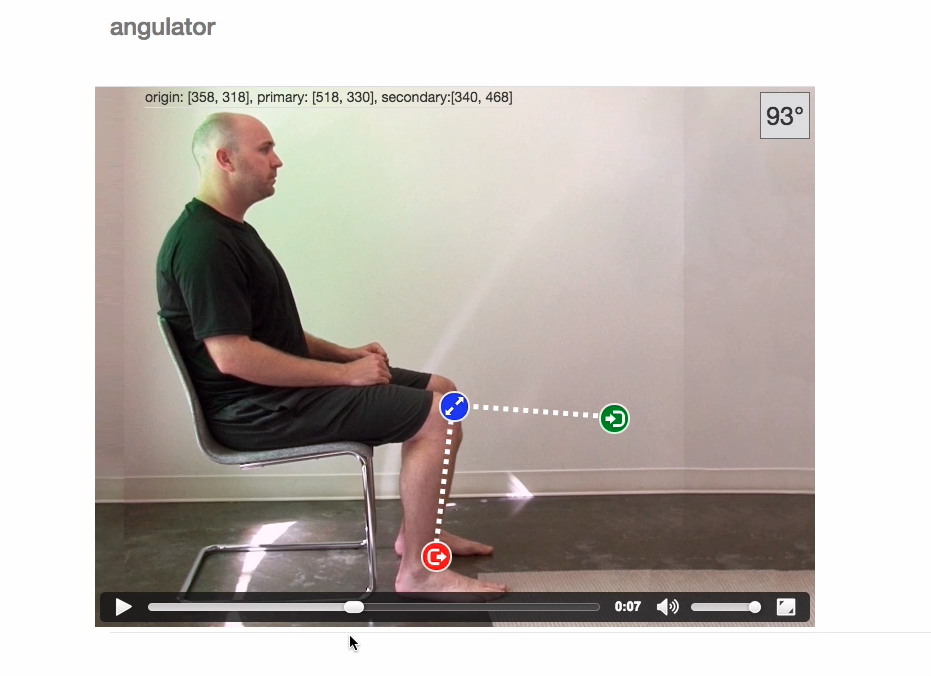
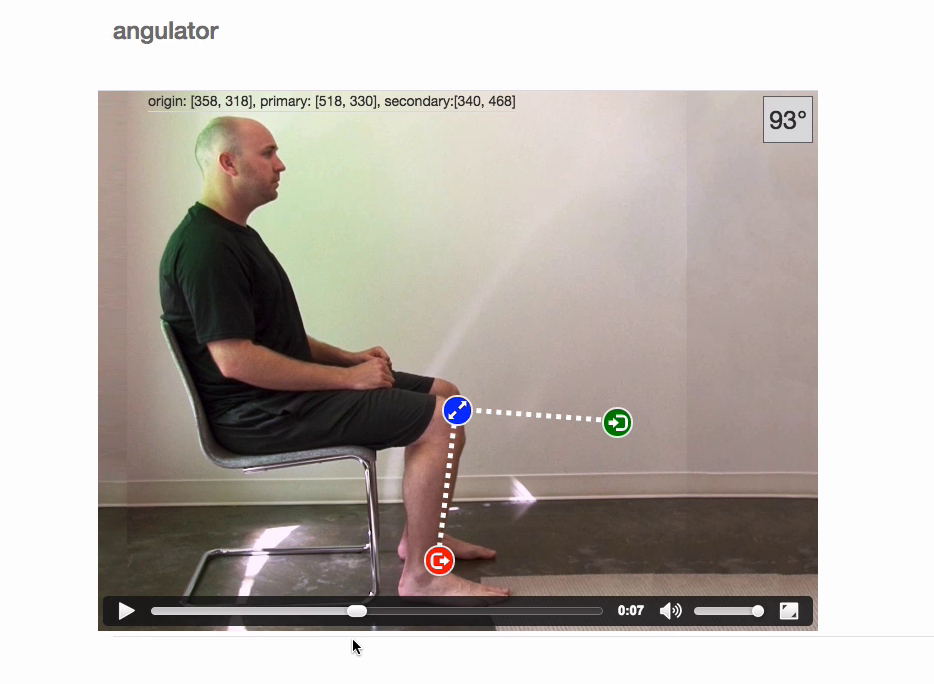
Angulator and Videos Pages

diff --git a/assets/styles/site.scss b/assets/styles/site.scss
@@ -13,15 +13,25 @@ h5 {
   font-size: 1em;
 }
 
+figure {
+  margin-bottom: 0.8rem;
+  text-align: center;
+}
+
+figure img {
+  border: solid 1px rgba(0,0,0,0.05);
+}
+
 figcaption {
   margin-top: 0.3rem;
+  text-align: center;
 }
 
 video {
   border: solid 1px rgba(0,0,0,0.05);
 }
 
-section:first-of-type img:first-of-type {
+img[src="/assets/images/johnny%205%20by%20ramenandsuch.png"] {
   display: block;
   max-width: 40%;
   margin-right: 0.8em;

diff --git a/viimed/angulator.md b/viimed/angulator.md
@@ -1,0 +1,80 @@
+---
+---
+
+<style>
+  @import '/assets/styles/site.css';
+</style>
+
+# Jonathan 'J5' Cook
+
+**Measure the Angle of the ...**
+
+## ViiMed Angulator
+
+<figure>
+  <video controls
+    width="480"
+    height="352"
+    poster="/assets/images/viimed/angulator/ViiMed - Angulator (Original Version).png">
+    <source src="/assets/video/ViiMed - Angulator (Original Version).mp4" />
+  </video>
+  <figcaption>Initial Video</figcaption>
+</figure>
+
+**Description**
+
+A virtual [goniometer](https://en.wikipedia.org/wiki/Goniometer) which allows
+medical practitioners to measure the angle describing the range of motion of a
+patient's joint displayed in a recorded video.
+
+### The Story
+
+The Angulator tool was first created in one evening after a brief discussion
+with ViiMed's CEO, Phil Newman.  I saw a drawing on a whiteboard and inquired
+about it.  Phil told me that it was a tool that if we could create a software
+version of, it could help us land a multi-million dollar contract.  That night
+a working version of the tool was completed.
+
+### Patent
+
+<figure>
+  <img width="400" alt="Angulator Patent Summary US 2015/0081629 A1" src="/assets/images/viimed/angulator/Angulator Tool - Patent Summary.png"/>
+  <figcaption>ViiMed Patent US 2015/0081629 A1</figcaption>
+</figure>
+
+<figure>
+  <img width="400" alt="Angulator Patent Drawing" src="/assets/images/viimed/angulator/Angulator Tool - Patent Drawing.png"/>
+  <figcaption>Patent US 2015/0081629 Angulator Drawing</figcaption>
+</figure>
+
+<figure>
+  <img alt="Angulator Patent Text" src="/assets/images/viimed/angulator/Angulator Tool - Patent Text.png"/>
+  <figcaption>Patent US 2015/0081629 Angulator Text</figcaption>
+</figure>
+
+It was later included in
+[US Patent US 2015/0081629 A1](http://patentimages.storage.googleapis.com/pdfs/US20150081629.pdf)
+filed by ViiMed for various elements of the company's software.
+
+### Promotion & Reception
+
+The Angulator was also featured prominently in several of ViiMed's web videos,
+as well as being extremely well received at industry trade shows.
+
+<figure>
+  <video controls
+    poster="/assets/images/viimed/angulator/ViiMed - Goniometer vs. Angulator - Mobile.png">
+    <source src="/assets/video/ViiMed - Goniometer vs. Angulator - Mobile.mp4" />
+  </video>
+  <figcaption>Goniometer vs. Angulator Efficacy Test</figcaption>
+</figure>
+
+<figure>
+  <video controls
+    width="480"
+    height="300"
+    poster="/assets/images/viimed/angulator/ViiMed - Angulator Feature Video.png">
+    <source src="/assets/video/ViiMed - Angulator Feature Video.mp4" />
+  </video>
+  <figcaption>Angulator Feature Video</figcaption>
+</figure>

diff --git a/videos.md b/videos.md
@@ -21,3 +21,17 @@
   poster="/assets/images/viimed/angulator/ViiMed - Angulator (Original Version).png">
   <source src="/assets/video/ViiMed - Angulator (Original Version).mp4" />
 </video>
+
+A virtual [goniometer](https://en.wikipedia.org/wiki/Goniometer) which allows
+medical practitioners to measure the angle describing the range of motion of a
+patient's joint displayed in a recorded video.
+
+The Angulator tool was first created in one evening after a brief discussion
+with ViiMed's CEO, Phil Newman.  I saw a drawing on a whiteboard and inquired
+about it.  Phil told me that it was a tool that if we could create a software
+version of, it could help us land a multi-million dollar contract.  That night
+a working version of the tool was completed.
+
+It was later included in a patent filed by ViiMed for various elements of the
+company's software and was also featured prominently in several web videos, as
+well as being extremely well received at trade shows.
